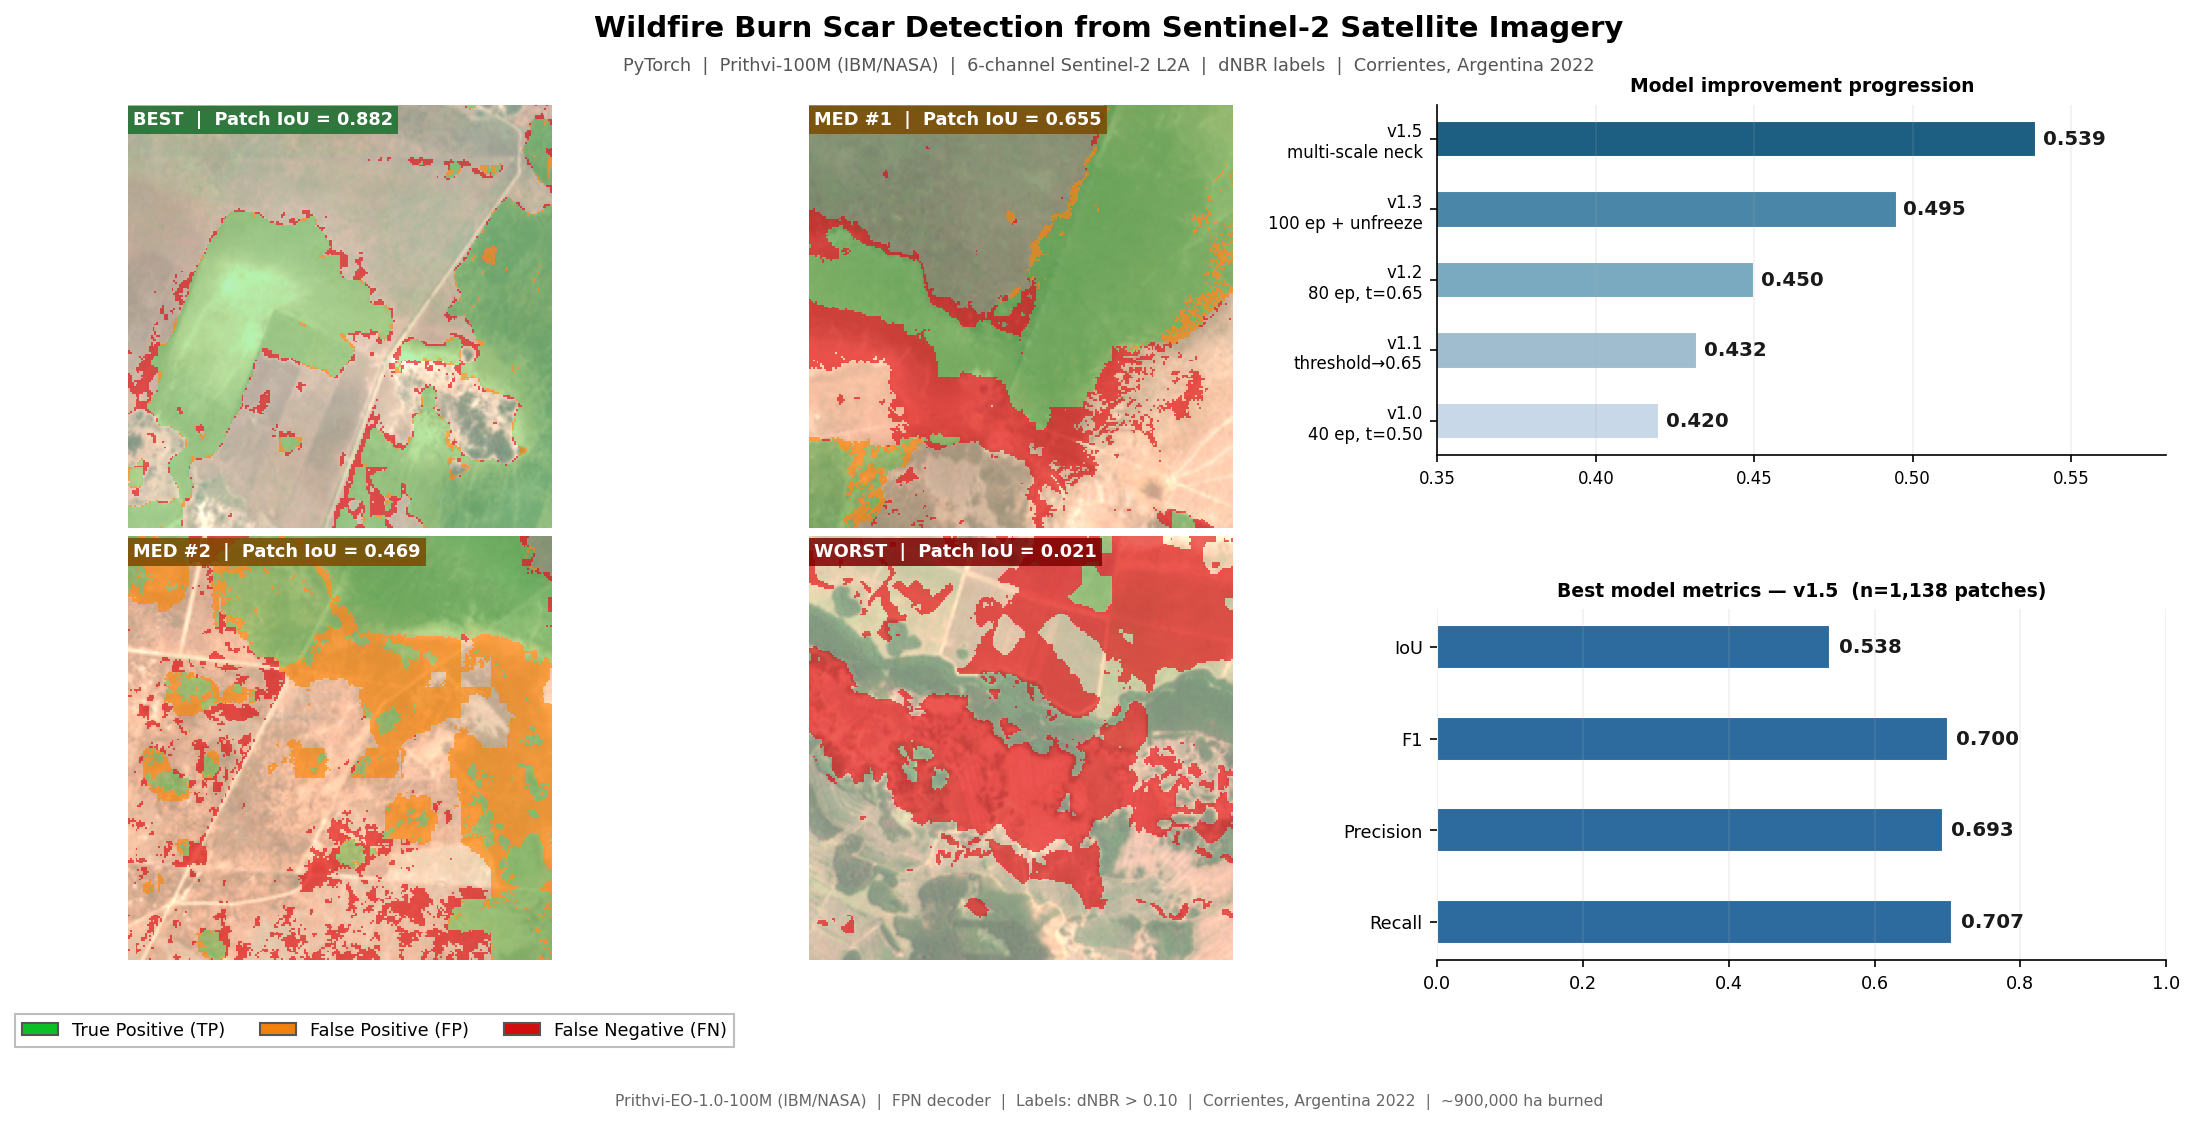
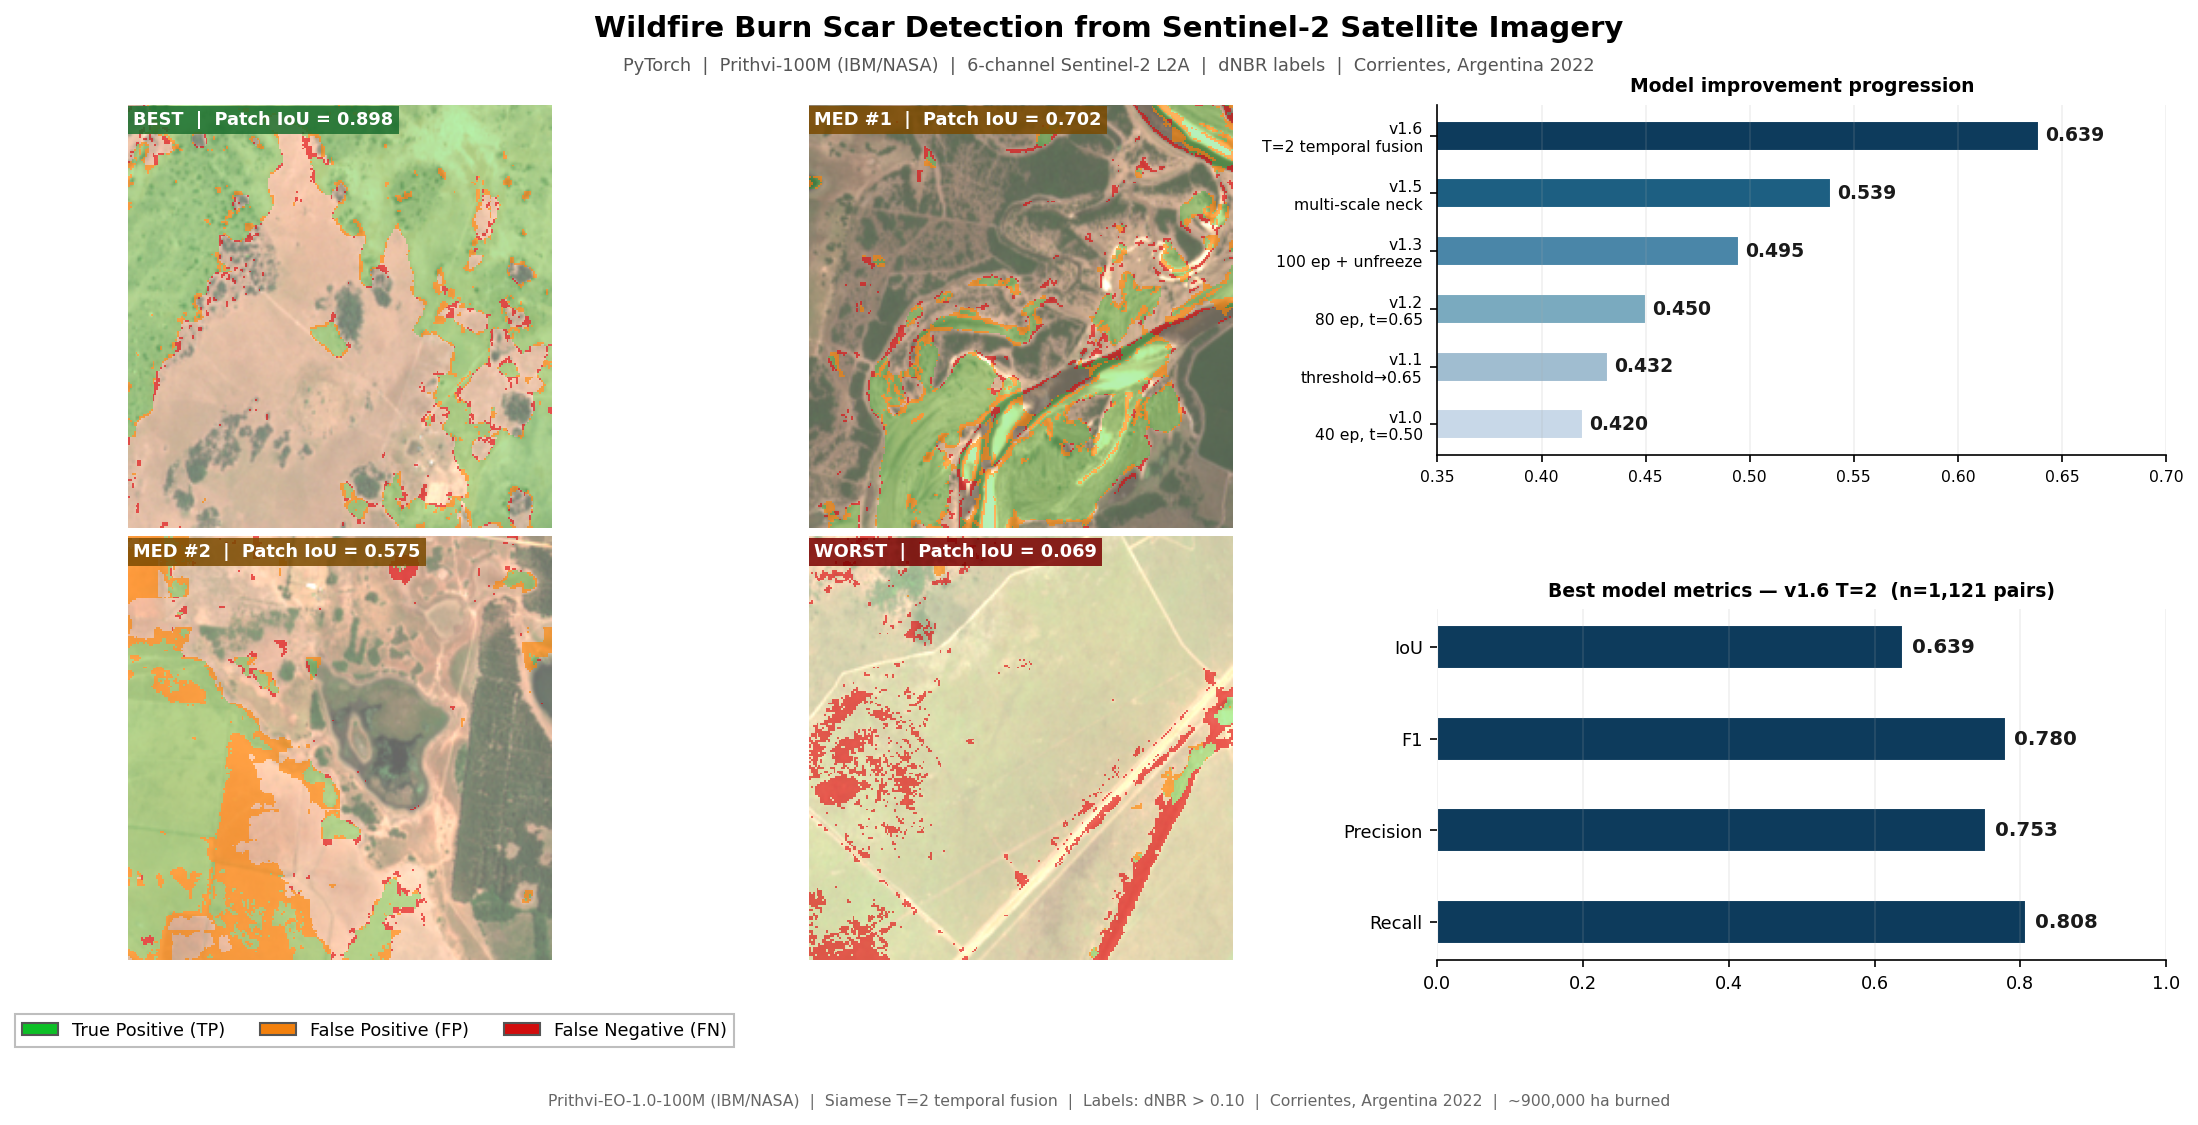
Add Siamese T=2 temporal fusion - v1.6 (+18.6% IoU vs v1.5)
TemporalFusionNeck fuses pre-fire + post-fire Prithvi features at layers
2,5,8,11. Backbone and decoder transferred from v1.5; only t_fuse layers
trained from scratch. 5601 T=2 pairs (Oct-Nov 2021 pre-fire). Final
metrics: IoU=0.639, F1=0.780, Prec=0.753, Rec=0.808, threshold=0.450.

diff --git a/README.md b/README.md
@@ -7,15 +7,16 @@ Semantic segmentation of wildfire burn scars using the IBM/NASA Prithvi-100M geo
 | Model | Labels | Region | Pixel IoU | Recall | Precision | AUC-ROC |
 |---|---|---|---|---|---|---|
 | U-Net ResNet34 | FIRMS active fire | Corrientes | 0.013 | 7% | 14% | — |
-| **Prithvi-100M + FPN** | **dNBR burn scar** | **Corrientes** | **0.54** | **71%** | **69%** | — |
+| Prithvi-100M + FPN (v1.5, T=1) | dNBR burn scar | Corrientes | 0.54 | 71% | 69% | — |
+| **Prithvi-100M + FPN (v1.6, T=2)** | **dNBR burn scar** | **Corrientes** | **0.64** | **81%** | **75%** | — |
 | Prithvi-100M + FPN | dNBR | Cordoba (zero-shot) | 0.13 | 75% | 13% | 0.73 |
 | **Prithvi-100M + FPN (few-shot FT)** | **dNBR** | **Cordoba (100 patches)** | **0.28** | **59%** | **34%** | **0.85** |
 
-41x improvement over the FIRMS-based baseline. Few-shot fine-tuning of the decoder on 100 Cordoba patches improves IoU 2.14x over zero-shot transfer and raises AUC-ROC from 0.73 to 0.85, with the encoder kept frozen throughout.
+49x improvement over the FIRMS-based baseline. Adding a pre-fire temporal input (T=2 Siamese fusion) raises IoU from 0.54 to 0.64 (+18.6%), improving both precision and recall simultaneously. Few-shot fine-tuning of the decoder on 100 Cordoba patches achieves 2.14x IoU gain over zero-shot transfer with the encoder kept frozen throughout.
 
 ![Portfolio overview](results/validation_overview.png)
 
-*Best, median, and worst-performing patches from the Corrientes validation set (1,138 patches). Error maps: green = true positive, orange = false positive, red = false negative. Metrics correspond to v1.5 (IoU=0.54, F1=0.70).*
+*Best, median, and worst-performing patches from the Corrientes validation set. Error maps: green = true positive, orange = false positive, red = false negative. Right panel: full model progression v1.0→v1.6 and best-model metrics (v1.6 T=2: IoU=0.64, F1=0.78).*
 
 ## Approach
 
@@ -36,12 +37,14 @@ This change increased positive patch coverage from 2.6% to 55.8% (21x more train
 
 | Component | Details |
 |---|---|
-| Backbone | Prithvi-EO-1.0-100M (IBM/NASA) |
+| Backbone | Prithvi-EO-1.0-100M (IBM/NASA) — shared weights in Siamese T=2 |
 | Pretraining | Masked autoencoding on HLS (Harmonized Landsat-Sentinel) |
-| Neck | Multi-scale FPN neck (transformer layers 2, 5, 8, 11 → 256-ch feature map) — added in v1.5 |
+| Neck (v1.5) | Multi-scale FPN neck (transformer layers 2, 5, 8, 11 → 256-ch feature map) |
+| Neck (v1.6) | TemporalFusionNeck: concat(pre, post) per layer → 1×1 Conv → top-down FPN |
 | Decoder | Feature Pyramid Network (FPN), trained from scratch |
 | Encoder | Frozen v1.0–v1.2; last 2 transformer blocks unfrozen in v1.3+ |
 | Input bands | B02, B03, B04, B8A, B11, B12 at 10 m resolution |
+| Temporal input | T=1 (post-fire only) through v1.5 — T=2 (pre + post) from v1.6 |
 | Patch size | 224x224 px |
 | Loss | DiceLoss + FocalLoss, fire class weight = 5.0 |
 
@@ -123,11 +126,24 @@ The FPN decoder was fine-tuned on 100 Cordoba patches (encoder kept frozen). The
 
 The fine-tuning trades some recall for a large precision gain. Overall IoU improves 2.14x. AUC-ROC reaches 0.85, indicating strong discriminative ability after adaptation. The encoder was never updated — all improvement comes from adapting the 2M-parameter decoder to the new biome.
 
+### Temporal fusion: Siamese T=2 model (v1.6)
+
+Adding a pre-fire image (Oct-Nov 2021) as a second temporal input gives the model direct access to spectral change, rather than relying on post-fire reflectance alone. The Siamese backbone (shared weights) processes pre-fire and post-fire images in parallel; the `TemporalFusionNeck` concatenates features at transformer layers 2, 5, 8, 11 and fuses them before the FPN decoder.
+
+![T=2 predictions](results/validation_overview_t2.png)
+
+| Metric | v1.5 (T=1, post-fire only) | v1.6 (T=2, pre + post) | Δ |
+|---|---|---|---|
+| IoU | 0.5385 | **0.6389** | +0.1004 (+18.6%) |
+| F1 | 0.700 | **0.780** | +0.080 |
+| Precision | 0.693 | **0.753** | +0.060 |
+| Recall | 0.707 | **0.808** | +0.101 |
+
+Both precision and recall improve simultaneously — the model eliminates false positives in areas with burn-scar-like reflectance that showed no spectral change between dates (bare soil, dry grassland). Optimal threshold shifted from 0.525 to 0.450, indicating the model outputs more calibrated probability estimates when spectral change information is available.
+
 ## Limitations
 
-The main limitation is biome-induced domain shift. The FPN decoder was trained on a single biome (Corrientes wetlands) and did not encounter the spectral characteristics of mountain xerophytic vegetation, causing over-prediction in Cordoba (Precision=0.13 zero-shot vs 0.34 after few-shot adaptation).
-
-Planned future work: multi-region training to reduce domain gap from the start, and temporal fusion using Prithvi's native two-date input (pre-fire + post-fire) to give the model direct access to spectral change rather than relying on a single post-fire image.
+The main limitation is biome-induced domain shift. The FPN decoder was trained on a single biome (Corrientes wetlands) and did not encounter the spectral characteristics of mountain xerophytic vegetation, causing over-prediction in Cordoba (Precision=0.13 zero-shot vs 0.34 after few-shot adaptation). Multi-region training across diverse biomes would reduce this gap without requiring fine-tuning at inference time.
 
 ## Changelog
 
@@ -139,6 +155,7 @@ Planned future work: multi-region training to reduce domain gap from the start, 
 | v1.3 | Partial backbone unfreeze (last 2 blocks) | **0.50** | **0.662** | Epochs 81-100, differential LR (1e-5/5e-5). IoU +9.9% vs v1.2. |
 | v1.4 | Spectral variation training (contrast ±15%, brightness, noise) | — | — | Perturbation too aggressive late in training — IoU dropped to 0.36, v1.3 checkpoint preserved. |
 | v1.5 | Multi-scale neck (FPN with transformer layers 2, 5, 8, 11) | **0.54** | **0.700** | 45 epochs (25 backbone frozen + 20 partial unfreeze), differential LR (1e-5/5e-5). IoU +8.9% vs v1.3. |
+| v1.6 | Siamese T=2 temporal fusion (pre-fire Oct-Nov 2021 + post-fire) | **0.64** | **0.780** | TemporalFusionNeck fuses pre/post features at layers 2,5,8,11. 45 epochs, threshold=0.450. IoU +18.6% vs v1.5. |
 
 ## Repository Structure
 
@@ -148,17 +165,20 @@ wildfire-burn-scar/
 │   ├── 01_data_acquisition.ipynb        Sentinel-2 L2A (CDSE) + NASA FIRMS download
 │   ├── 02_preprocessing.ipynb           Band stacking, patch extraction, dNBR labels
 │   ├── 03_baseline.ipynb                U-Net ResNet34 training + diagnostic evaluation
-│   ├── 04_prithvi_training.ipynb        Prithvi-100M fine-tuning (Colab A100)
+│   ├── 04_prithvi_training.ipynb        Prithvi-100M fine-tuning v1.0–v1.5 (Colab A100)
+│   ├── 04b_prithvi_t2.ipynb             Siamese T=2 temporal fusion — v1.6 (Colab A100)
 │   ├── 05_cordoba_data.ipynb            Córdoba test set acquisition and preprocessing
 │   ├── 06_cordoba_evaluation.ipynb      Geographic generalization + few-shot adaptation (Colab A100)
 │   └── 07_inference_demo.ipynb          Single-patch inference demo (Colab)
 ├── results/
-│   ├── validation_overview.png          Global: best/median/worst patches, model progression, v1.5 metrics
+│   ├── validation_overview.png          Global: best/median/worst patches, model progression v1.0→v1.6
+│   ├── validation_overview_t2.png       T=2 detailed: BEST/MED/WORST patches, training curves, metrics
 │   ├── validation_overview_v10.png      Per-tag: v1.0 baseline vs FIRMS comparison
 │   ├── validation_overview_v11.png      Per-tag: v1.1 threshold optimization
 │   ├── validation_overview_v12.png      Per-tag: v1.2 continuation training
 │   ├── validation_overview_v13.png      Per-tag: v1.3 backbone unfreeze
 │   ├── validation_overview_v15.png      Per-tag: v1.5 multi-scale neck
+│   ├── validation_overview_v16.png      Per-tag: v1.6 T=2 temporal fusion
 │   ├── threshold_sweep.png              Metrics vs threshold + PR curve (v1.1)
 │   ├── training_curves_prithvi_burn_scar.png
 │   ├── predictions_prithvi_burn_scar.png
@@ -198,7 +218,7 @@ CDS_KEY=your_cds_key
 **Run order**
 
 Notebooks 01-03 and 05 run locally on CPU (~4-5 hours total, mostly data download).
-Notebooks 04, 06, and 07 require a GPU and are designed for Google Colab (A100 recommended).
+Notebooks 04, 04b, 06, and 07 require a GPU and are designed for Google Colab (A100 recommended).
 
 ## Data Sources
 